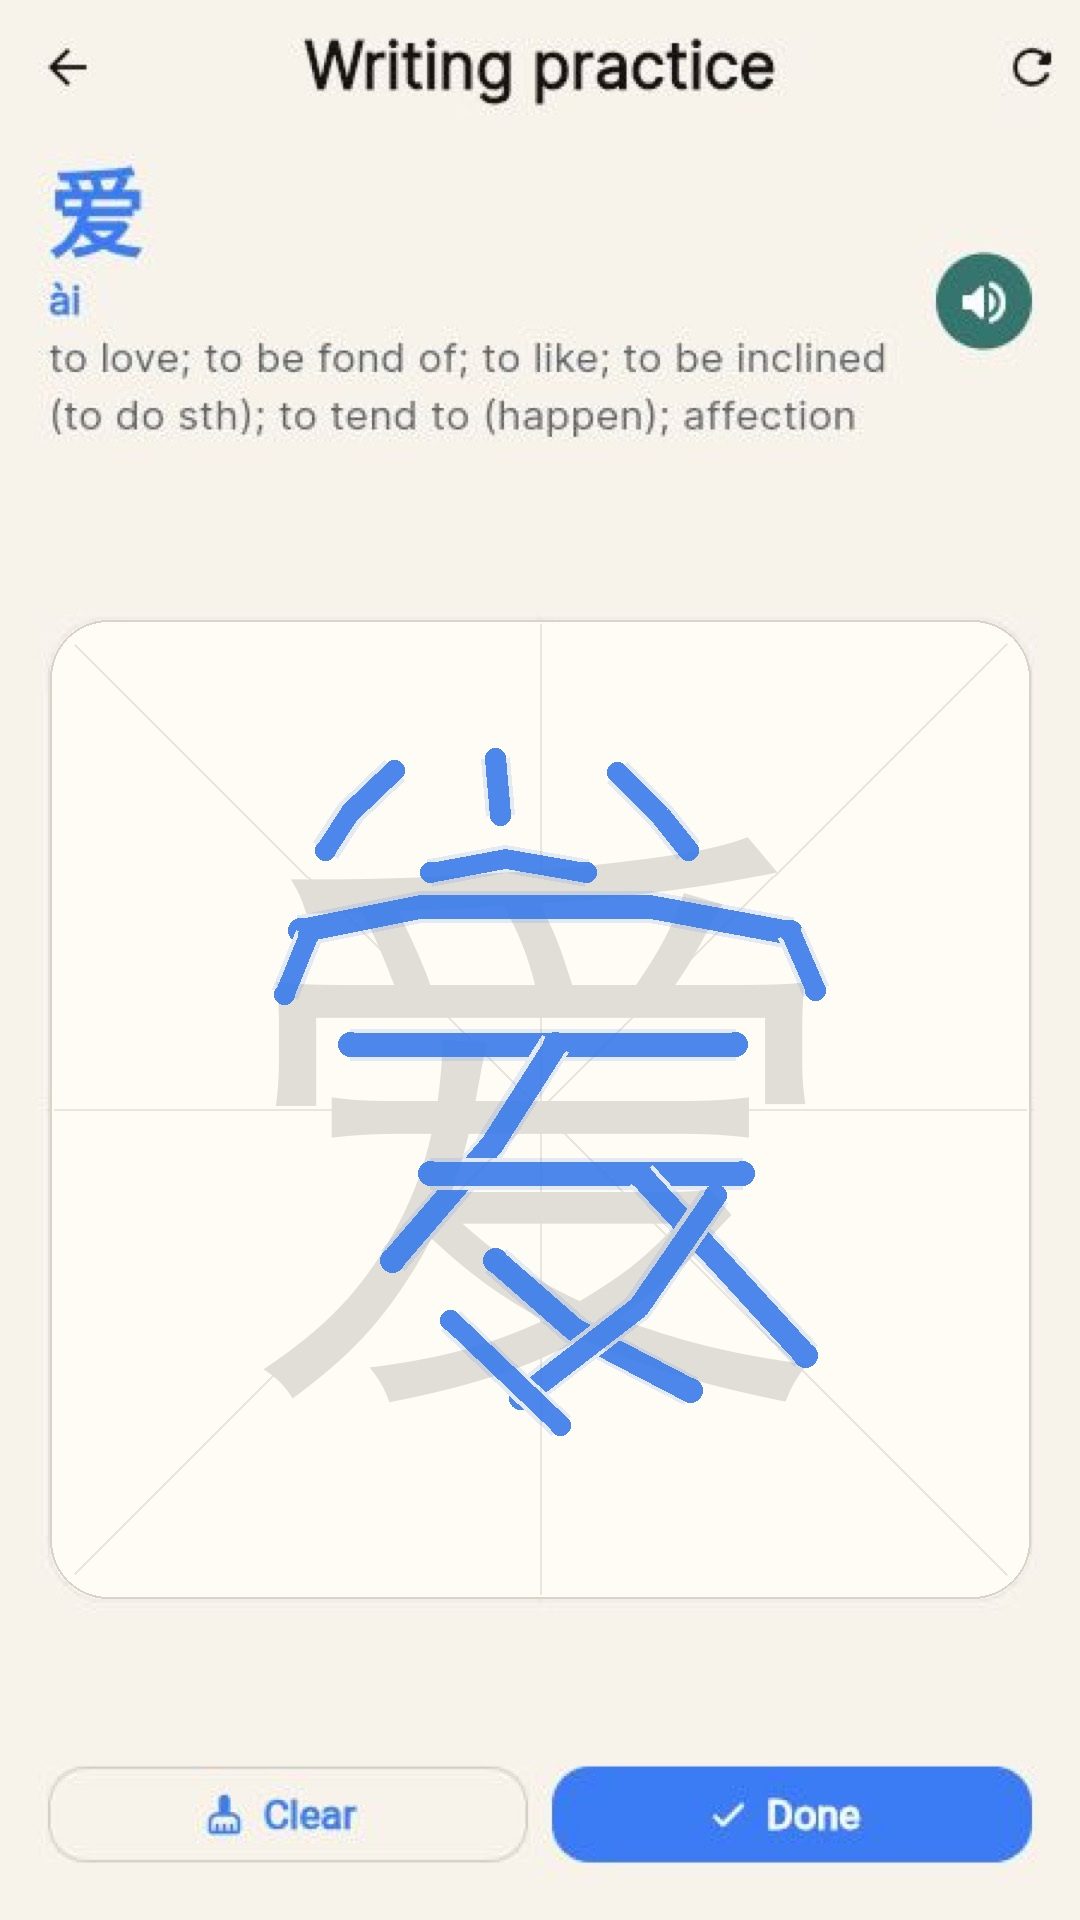
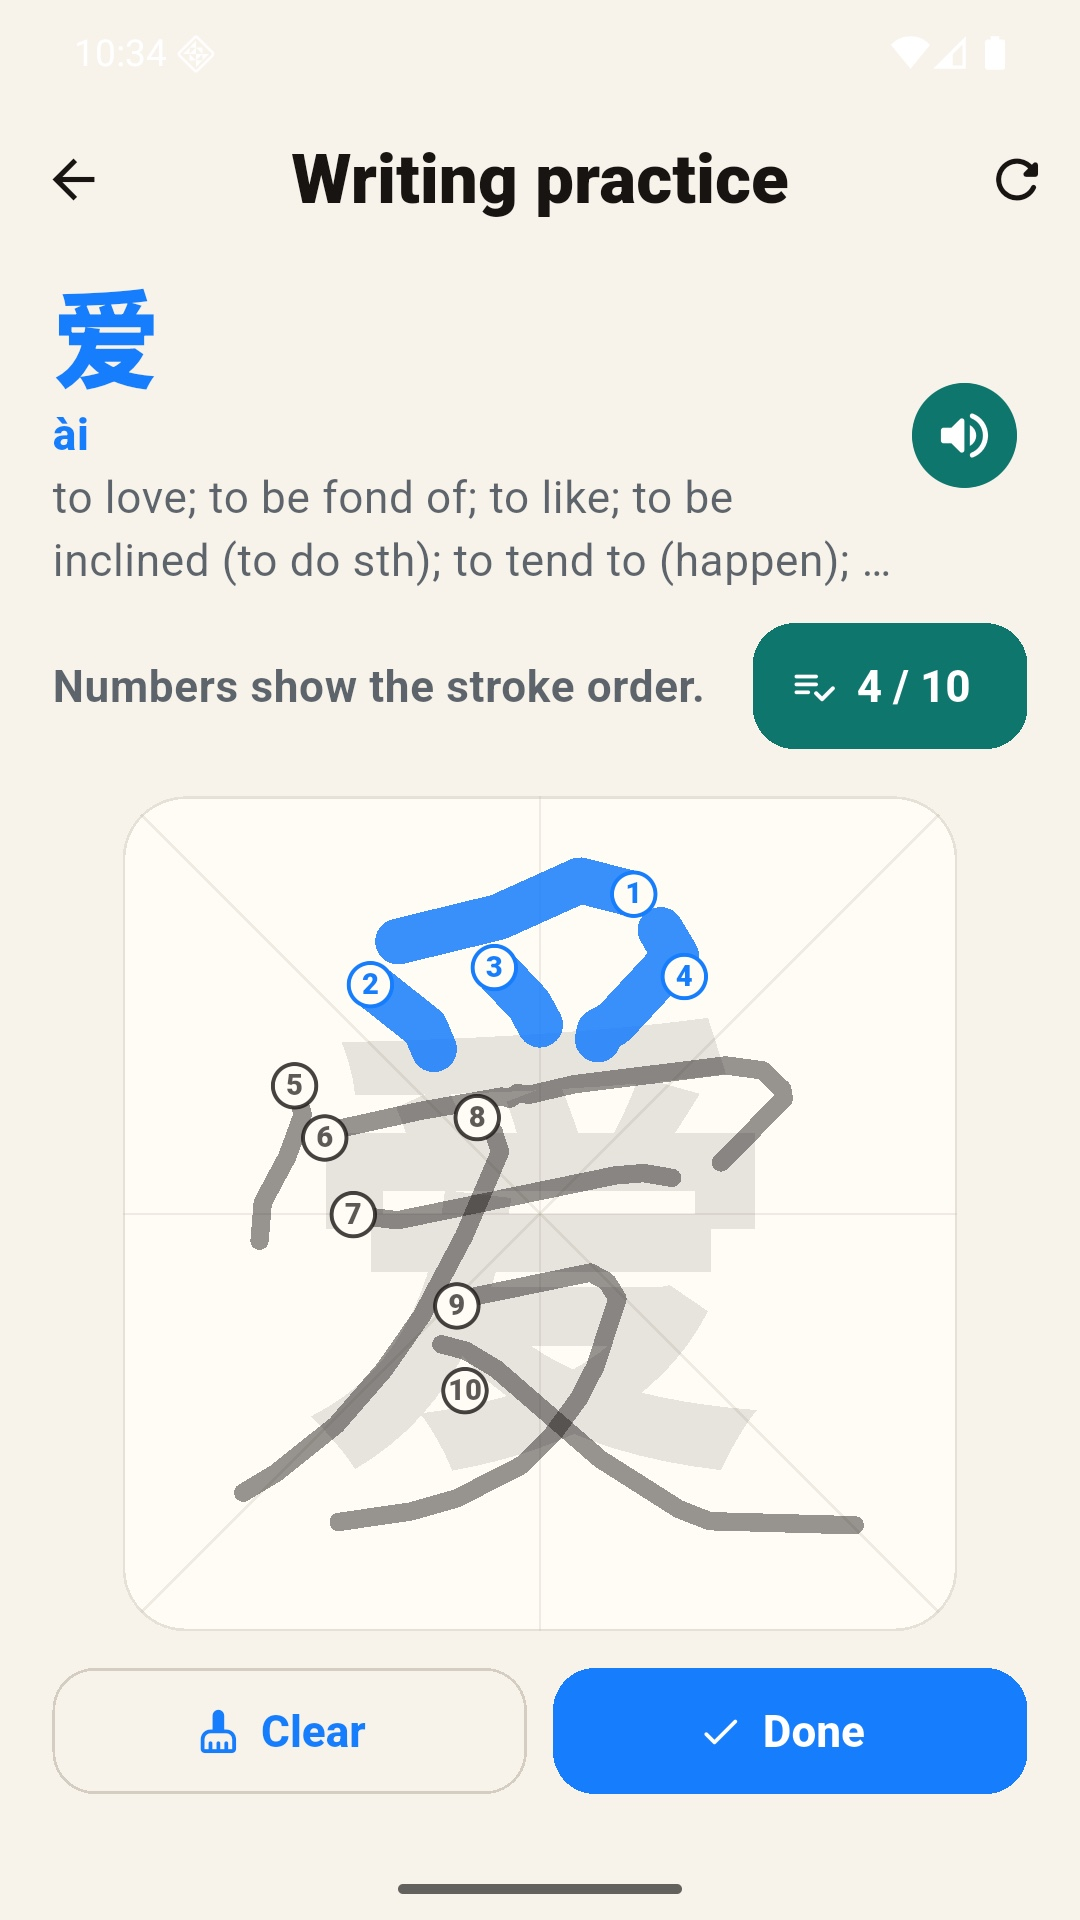
Refresh screenshots and copy for HSK Deck 1.2.0
Writing practice now shows the numbered stroke order, and the example
sentences on a card answer each carry a play button. Feature copy mentions
both. The old dark-mode answer card was replaced with the current answer
side, which shows the audio buttons the app now has.

diff --git a/index.html b/index.html
@@ -75,7 +75,7 @@
           <div class="feature-grid">
             <article class="feature">
               <strong>Flashcards</strong>
-              <p>Review hanzi, pinyin, English meanings, examples, and pronunciation in one clean card flow.</p>
+              <p>Review hanzi, pinyin, English meanings, and example sentences — tap any example to hear it spoken.</p>
             </article>
             <article class="feature">
               <strong>Audio and quizzes</strong>
@@ -83,7 +83,7 @@
             </article>
             <article class="feature">
               <strong>Writing practice</strong>
-              <p>Use character writing practice to slow down, notice structure, and build stronger memory.</p>
+              <p>Follow the numbered stroke order, then trace each character by hand to lock in its shape.</p>
             </article>
             <article class="feature">
               <strong>HSK 1-9 decks</strong>
@@ -105,7 +105,7 @@
         <div class="wrap">
           <div class="section-title">
             <h2>Practice HSK Your Way</h2>
-            <p>More study surfaces beyond the hero: browse vocabulary, run quick quizzes, and switch into a darker study mood when you want less glare.</p>
+            <p>More study surfaces beyond the hero: browse vocabulary, run quick quizzes, and hear every example sentence read aloud.</p>
           </div>
           <div class="screen-grid">
             <figure class="screen-card">
@@ -116,9 +116,9 @@
               <img src="assets/screen-quiz.jpg" alt="HSK Deck quiz modes screen for meaning, pinyin, and audio practice">
               <figcaption>Train recall with meaning, pinyin, and audio quiz modes.</figcaption>
             </figure>
-            <figure class="screen-card dark-card">
-              <img src="assets/screen-card-detail-dark-real.jpg" alt="Real dark mode HSK Deck flashcard detail screen with hanzi, pinyin, meaning, and example text">
-              <figcaption>Use a darker card detail view for lower-glare evening review.</figcaption>
+            <figure class="screen-card">
+              <img src="assets/screen-card-examples.jpg" alt="HSK Deck flashcard answer showing three example sentences with pinyin, translations, and a play button on each">
+              <figcaption>Every example sentence comes with pinyin and a play button.</figcaption>
             </figure>
           </div>
         </div>
